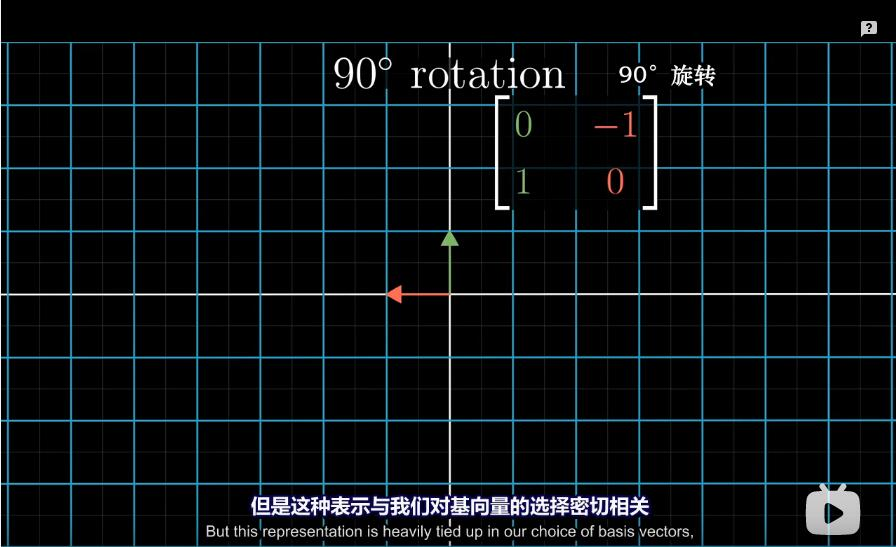
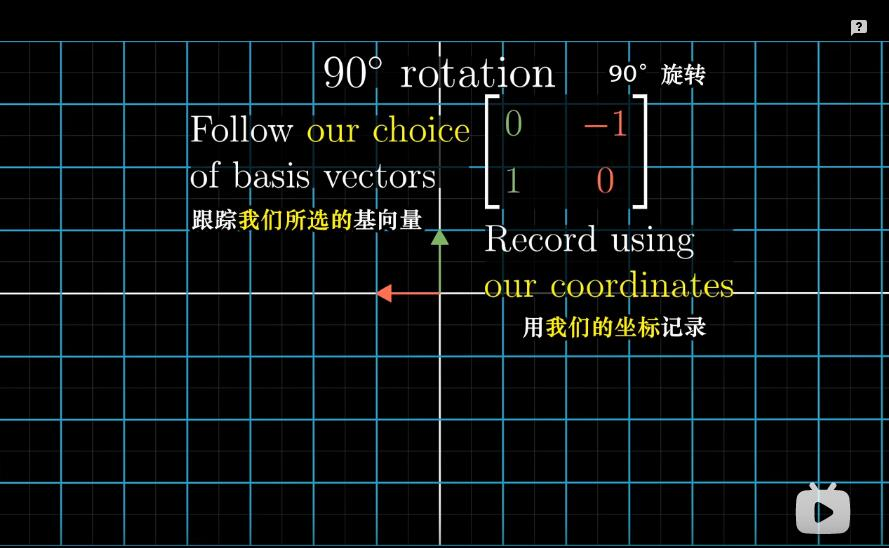
auto-commit

Changed region(s): [[0.0, 0.0311, 1.0, 1.0]]

diff --git a/未同步/线性代数/13基变量.md b/未同步/线性代数/13基变量.md
@@ -249,6 +249,9 @@ b1乘以5/3,b2乘以1/3，再将两个结果相加，
 ```
 不过，向量并不是唯一用坐标表示的东西，
 
+前面在说向量的在不同基变换;
+下面说矩阵在不同的基向量;
+
 重要的是，接下来的内容里，你需要熟悉矩阵代表线性变换，
 以及矩阵乘积对应于线性变换复合这两点，
 ```
@@ -260,5 +263,98 @@ b1乘以5/3,b2乘以1/3，再将两个结果相加，
 你我用矩阵代表它的时候，我们是在跟踪i帽和j帽的去向，
 i帽在变换后处于 0,1，而j帽在变换后处于坐标(-1,0)
 这些坐标也就成为了矩阵的列，
+但是这种表示与我们对基向量的选择密切相关，
+因为我们跟踪的是i帽和j帽，
 ```
+
+![](imagep13-01/01-26.jpg)
+
+![](imagep13-01/01-25.jpg)
+
+```
+路人A如何描述同样的空间90旋转呢？
+
+你可能会尝试直接将旋转矩阵的列转换成用路人A的语言描述，
+但是这样不行，
+这些列代表的是i帽和j帽的去向，
+但是路人A想要的矩阵需要代表她的基向量的去向，
+并且是用她的语言来描述，
+
+可以这样想，0,1 -1,0 代表的是基向量的旋转90后的基向量的值，
+但是路人A的基向量网格可能并不是垂直的，所以 路人A的 0,1 -1,0 可能并不是90°。
+```
+
+![](imagep13-01/01-27.jpg)
+
+![](imagep13-01/01-28.jpg)
+
+![](imagep13-01/01-29.jpg)
+
+![](imagep13-01/01-30.jpg)
+
+![](imagep13-01/01-31.jpg)
+
+![](imagep13-01/01-32.jpg)
+
+```
+这个过程通常是这样的，
+从路人A的语言描述的任一向量出发，
+首先，我们不用她的语言描述这一过程，
+
+而是用基向量矩阵转换为用我们的语言描述，
+这个矩阵的列代表的是用我们的语言描述的她的基向量，
+此时给出的同样是一个向量，不过是用我们的语言描述的，
+
+然后，将所得结果左乘线性变换矩阵，
+此时给出的是变换后的向量，但仍然是用我们的语言来描述的，
+
+到最后一步，
+像之前一样将所得结果左乘基变换矩阵的逆，
+从而得到变换后的向量，然后是用路人A的语言来描述的，
+```
+
+```
+因为我们能够对路人A语言描述的任一向量做同样的事，
+首先应用基变换，
+然后应用线性变换，
+最后应用基变换的逆，
+这三个矩阵的复合给出的就是用路人A语言描述的线性变换矩阵，
+它接收路人A语言描述的向量，
+并输出用路人A语言描述的变换后的向量，
+```
+
+![](imagep13-01/01-33.jpg)
+
+```
+对于目前的例子而言，
+路人A的基向量用我们的语言来描述，是(2,1)和(-1,1),
+线性变换是90°旋转，
+如果你去计算的话，这三个矩阵的列为...(看图);
+
+所以，如果路人A用这个矩阵与她坐标系中的一个向量相乘，
+结果就是在她坐标系中描述的该向量旋转90°的结果。
+```
+
+![](imagep13-01/01-34.jpg)
+
+```
+总的来说，每当你看到这样一个表达式:
+A逆乘以M乘以A，
+这就暗示着一种数学上的转移作用，
+中间的矩阵代表一种你所见的变换，
+而外侧两个矩阵代表着转移作用，也就是视角上的转化，
+
+
+矩阵乘积仍然代表着同一个变换，只不过是从其他人的角度来看的。
+```
+
+
+
+
+
+
+
+
+
+
 
